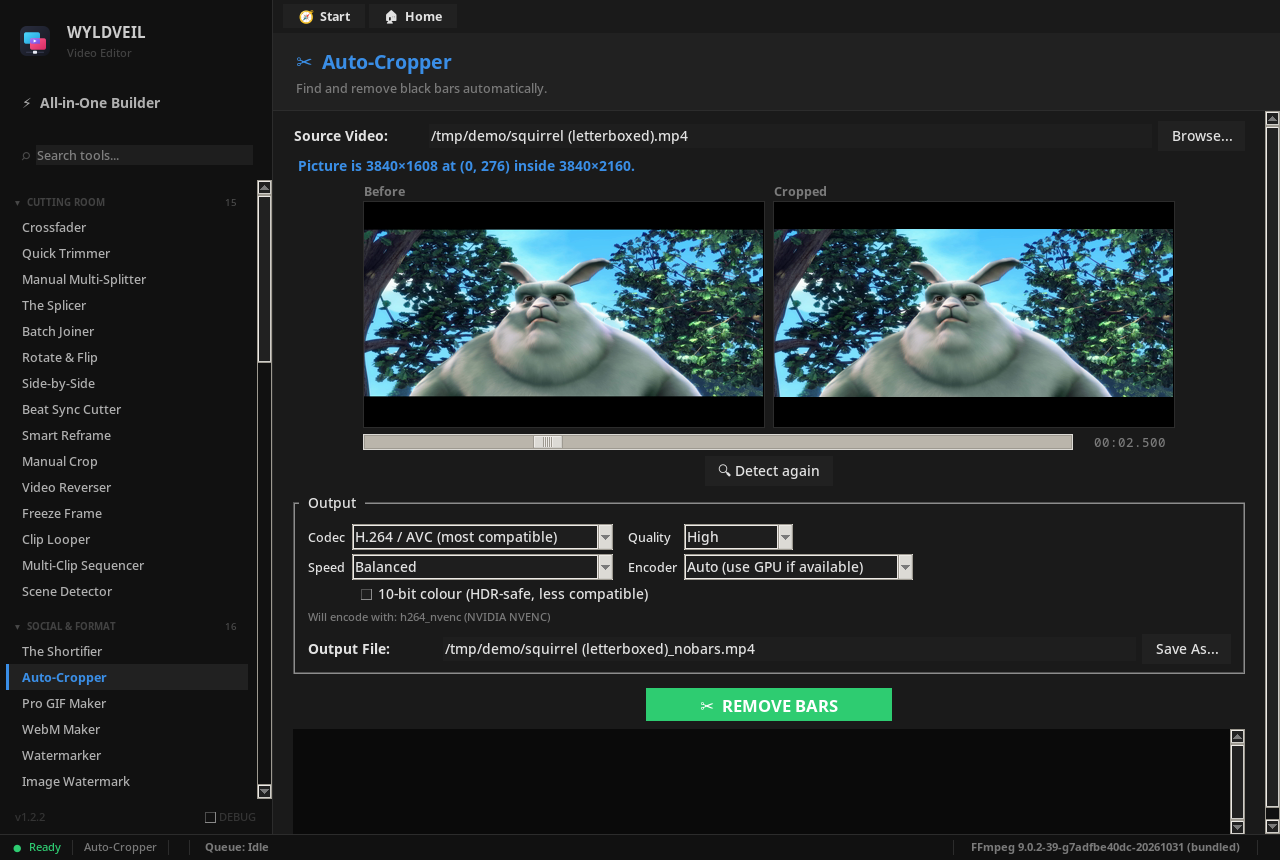
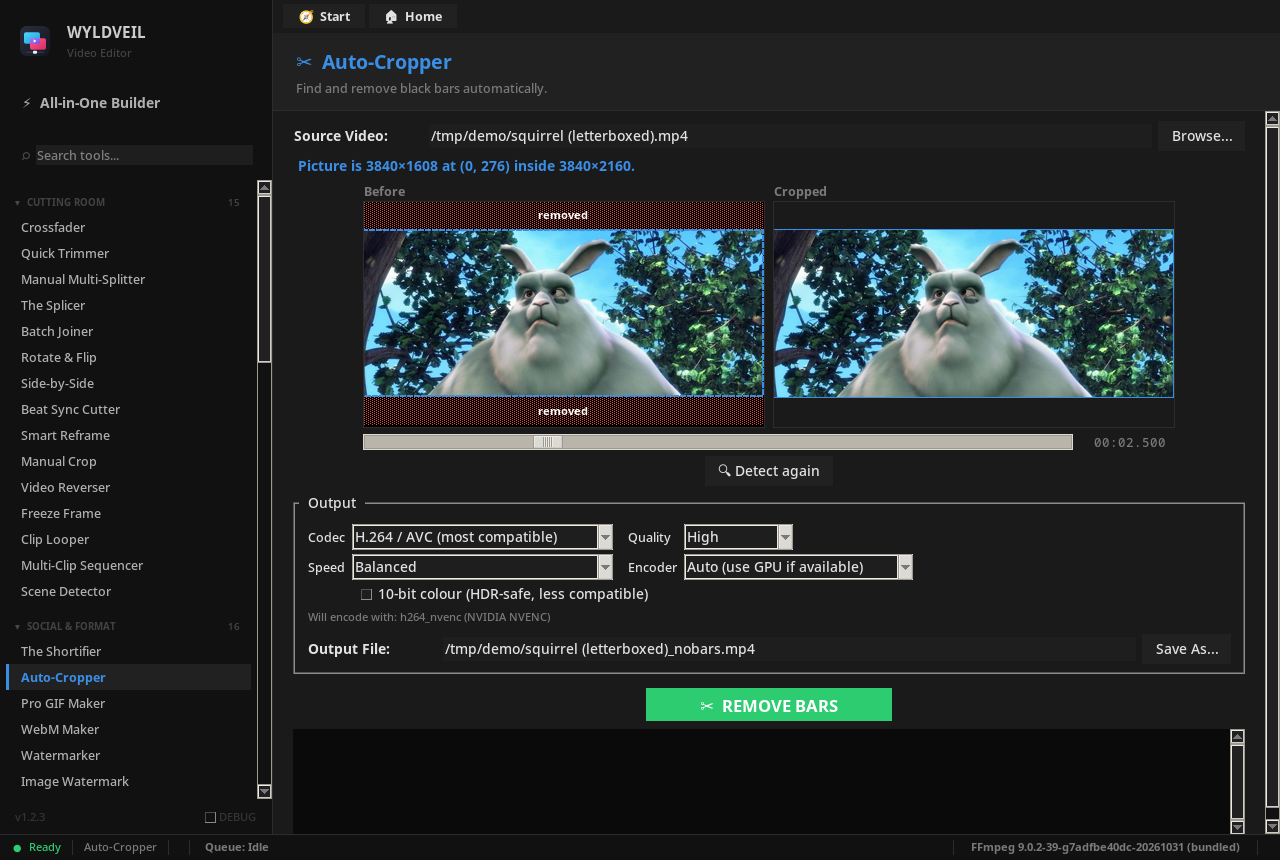
Fix things that looked broken: Auto-Cropper preview, Encode Queue progress, and more
- Auto-Cropper: the before view shades the bars that will go and outlines the
  picture that stays; the cropped view is drawn on the page colour, so it is
  visibly shorter (on black it looked exactly like the original).
- Encode Queue: the Progress column shows a bar, percentage and time left (or
  Waiting / Finished / Failed and why) instead of raw FFmpeg log lines.
- TTS Voice-Over: the character / word count follows every change to the
  script, not only typing (it stayed at 0 after pasting with the mouse,
  dropping or loading text).
- Music Ducker: labels are as wide as the longest one, in any language
  ("Background Music File:" was cut off).
- Chapter Markers: the list is one row and the checks, export buttons and
  YouTube text sit below it at full width (they were squeezed into a narrow
  column and cut off); the page scrolls; each problem on its own line.
- One-line tool headers cut a too-long subtitle at its end, not both ends.
- README: Auto-Cropper and Colour Match screenshots show what they do.

Changed region(s): [[0.2812, 0.2116, 0.9375, 0.514], [0.0, 0.2419, 0.125, 0.6953], [0.0, 0.7558, 0.0938, 0.9372]]

diff --git a/tabs/social/chapter_markers.py b/tabs/social/chapter_markers.py
@@ -23,6 +23,7 @@ import re
 import json
 
 from tabs.base_tab import BaseTab, CLR, UI_FONT, MONO_FONT
+from tabs.widgets import scroll_body
 from core.i18n import t
 from core.scaling import px
 
@@ -112,8 +113,10 @@ class ChapterMarkersTab(BaseTab):
                  text=t("chapter_markers.subtitle"),
                  bg=CLR["panel"], fg=CLR["fgdim"]).pack(side="left")
 
+        body = scroll_body(self)
+
         # ── Source video ──────────────────────────────────────────────────
-        sf = tk.Frame(self); sf.pack(pady=px(10))
+        sf = tk.Frame(body); sf.pack(pady=px(10))
         tk.Label(sf, text=t("common.source_video"), font=(UI_FONT, 10, "bold")).pack(side="left")
         self.src_var = tk.StringVar()
         tk.Entry(sf, textvariable=self.src_var, width=58, relief="flat").pack(side="left", padx=px(8))
@@ -123,7 +126,7 @@ class ChapterMarkersTab(BaseTab):
         self.dur_lbl.pack(side="left", padx=px(8))
 
         # ── Timeline scrubber ─────────────────────────────────────────────
-        scrub_lf = tk.LabelFrame(self, text=f"  {t('chapter_markers.timeline_section')}  ", padx=px(14), pady=px(10))
+        scrub_lf = tk.LabelFrame(body, text=f"  {t('chapter_markers.timeline_section')}  ", padx=px(14), pady=px(10))
         scrub_lf.pack(fill="x", padx=px(16), pady=px(6))
 
         self.timeline = tk.Scale(scrub_lf, from_=0, to=100,
@@ -152,7 +155,7 @@ class ChapterMarkersTab(BaseTab):
                       command=lambda p=pct: self._jump_pct(p)).pack(side="left", padx=px(1))
 
         # ── Mark + name ───────────────────────────────────────────────────
-        mark_row = tk.Frame(self); mark_row.pack(fill="x", padx=px(16), pady=px(4))
+        mark_row = tk.Frame(body); mark_row.pack(fill="x", padx=px(16), pady=px(4))
         tk.Label(mark_row, text=t("chapter_markers.chapter_title_label")).pack(side="left")
         self.new_title_var = tk.StringVar(value="Chapter")
         title_entry = tk.Entry(mark_row, textvariable=self.new_title_var, width=30, relief="flat")
@@ -168,7 +171,7 @@ class ChapterMarkersTab(BaseTab):
                   command=lambda: self._add_chapter(0.0, "Intro")).pack(side="left", padx=px(4))
 
         # Auto-number
-        auto_row = tk.Frame(self); auto_row.pack(anchor="w", padx=px(16), pady=px(2))
+        auto_row = tk.Frame(body); auto_row.pack(anchor="w", padx=px(16), pady=px(2))
         self.autonumber_var = tk.BooleanVar(value=True)
         tk.Checkbutton(auto_row,
                        text=t("chapter_markers.auto_number_checkbox"),
@@ -177,21 +180,25 @@ class ChapterMarkersTab(BaseTab):
         tk.Entry(auto_row, textvariable=self.prefix_var, width=12, relief="flat").pack(side="left", padx=px(6))
 
         # ── Chapter list ──────────────────────────────────────────────────
-        list_hdr = tk.Frame(self); list_hdr.pack(fill="x", padx=px(16), pady=px(8, 0))
+        list_hdr = tk.Frame(body); list_hdr.pack(fill="x", padx=px(16), pady=px(8, 0))
         tk.Label(list_hdr, text=t("chapter_markers.chapter_list"), font=(UI_FONT, 9, "bold"),
                  fg=CLR["fgdim"]).pack(side="left")
         self.count_lbl = tk.Label(list_hdr, text=t("chapter_markers.0_chapters"),
                                    fg=CLR["fgdim"], font=(UI_FONT, 9))
         self.count_lbl.pack(side="left", padx=px(10))
 
+        # The list with its scrollbar and buttons is one row; everything else
+        # goes below it at full width
+        list_row = tk.Frame(body)
+        list_row.pack(fill="x")
         cols = ("timestamp", "title")
-        self.tree = ttk.Treeview(self, columns=cols, show="headings",
+        self.tree = ttk.Treeview(list_row, columns=cols, show="headings",
                                   selectmode="browse", height=8)
         self.tree.heading("timestamp", text=t("chapter_markers.timestamp_col"))
         self.tree.heading("title",     text=t("chapter_markers.title_col"))
         self.tree.column("timestamp", width=px(120), anchor="center")
         self.tree.column("title",     width=px(500))
-        tree_sb = ttk.Scrollbar(self, command=self.tree.yview)
+        tree_sb = ttk.Scrollbar(list_row, command=self.tree.yview)
         self.tree.config(yscrollcommand=tree_sb.set)
         self.tree.pack(side="left", fill="both", expand=False,
                        padx=px(16, 0), pady=px(4))
@@ -200,7 +207,7 @@ class ChapterMarkersTab(BaseTab):
         self.tree.bind("<Delete>", lambda e: self._remove_selected())
 
         # List action buttons
-        list_btns = tk.Frame(self)
+        list_btns = tk.Frame(list_row)
         list_btns.pack(side="left", padx=px(8), anchor="n", pady=px(4))
         for txt, cmd, bg in [
             ("✏  Edit Title",                            self._edit_selected,  "#3A3A3A"),
@@ -215,15 +222,14 @@ class ChapterMarkersTab(BaseTab):
 
         # ── Preview pane ──────────────────────────────────────────────────
         # (rest of the UI continues below the side-by-side)
-        self.tree.pack_configure(side="left", expand=True)
 
         # ── Validation ────────────────────────────────────────────────────
-        self.valid_lbl = tk.Label(self, text="", font=(UI_FONT, 9),
-                                   fg=CLR["fgdim"])
+        self.valid_lbl = tk.Label(body, text="", font=(UI_FONT, 9),
+                                   fg=CLR["fgdim"], justify="left", anchor="w")
         self.valid_lbl.pack(anchor="w", padx=px(16))
 
         # ── Export ────────────────────────────────────────────────────────
-        export_lf = tk.LabelFrame(self, text=f"  {t('chapter_markers.export_section')}  ", padx=px(14), pady=px(8))
+        export_lf = tk.LabelFrame(body, text=f"  {t('chapter_markers.export_section')}  ", padx=px(14), pady=px(8))
         export_lf.pack(fill="x", padx=px(16), pady=px(6))
 
         exp_row = tk.Frame(export_lf); exp_row.pack(fill="x")
@@ -240,7 +246,7 @@ class ChapterMarkersTab(BaseTab):
                       command=cmd).pack(side="left", padx=px(4))
 
         # Output preview
-        preview_lf = tk.LabelFrame(self, text=f"  {t('chapter_markers.preview_section')}  ",
+        preview_lf = tk.LabelFrame(body, text=f"  {t('chapter_markers.preview_section')}  ",
                                     padx=px(10), pady=px(6))
         preview_lf.pack(fill="x", padx=px(16), pady=px(4))
         self.preview_text = tk.Text(preview_lf, height=8,
@@ -317,7 +323,7 @@ class ChapterMarkersTab(BaseTab):
         if not issues:
             self.valid_lbl.config(text=t("chapter_markers.valid_for_youtube_chapters"), fg=CLR["green"])
         else:
-            self.valid_lbl.config(text="⚠  " + "  ".join(issues), fg=CLR["orange"])
+            self.valid_lbl.config(text="\n".join("⚠  " + i for i in issues), fg=CLR["orange"])
 
     def _update_preview(self):
         self.preview_text.config(state="normal")

diff --git a/tabs/social/auto_cropper.py b/tabs/social/auto_cropper.py
@@ -60,6 +60,12 @@ class AutoCropperTab(BaseTab):
         self.result_lbl.pack(anchor="w", padx=px(24))
         self.compare = CompareView(body, 400, 225, after_label="Cropped")
         self.compare.pack(pady=px(4))
+        # Before: the bars that go are shaded and the picture that stays is outlined.
+        # Cropped: drawn on the page colour, not black, so the frame is visibly
+        # shorter than before (on black it looked just like the bars).
+        self.compare.view_before.after_draw = self._draw_bars
+        self.compare.view_after.after_draw = self._outline_result
+        self.compare.view_after.canvas.configure(bg=CLR["bg"])
         self.btn_detect = tk.Button(body, text="🔍 Detect again", relief="flat", command=self._detect)
         self.btn_detect.pack()
 
@@ -101,15 +107,48 @@ class AutoCropperTab(BaseTab):
                 self.box = None
                 self.result_lbl.config(text="No black bars found - nothing to crop.")
                 self.compare.set_filter("")
+                self._draw_bars()
                 return
             self.box = box
             x, y, bw, bh = box
             self.result_lbl.config(text=f"Picture is {bw}×{bh} at ({x}, {y}) inside {w}×{h}.")
             self.compare.set_filter(f"crop={bw}:{bh}:{x}:{y}")
+            self._draw_bars()
 
         from core import ui
         ui.run_in_thread(detect_bars, path, info.duration, on_done=done,
                          on_error=lambda _e: done(None), name="AutoCrop")
+
+    def _draw_bars(self):
+        view = self.compare.view_before
+        c = view.canvas
+        c.delete("bars")
+        shown = view.image_box()
+        if shown is None or self.box is None or self._info is None or not self._info.has_video:
+            return
+        ix, iy, iw, ih = shown
+        vw, vh = self._info.video.display_size
+        sx, sy = iw / max(1, vw), ih / max(1, vh)
+        x, y, bw, bh = self.box
+        kx0, ky0, kx1, ky1 = ix + x * sx, iy + y * sy, ix + (x + bw) * sx, iy + (y + bh) * sy
+        for box in ((ix, iy, ix + iw, ky0), (ix, ky1, ix + iw, iy + ih),
+                    (ix, ky0, kx0, ky1), (kx1, ky0, ix + iw, ky1)):
+            if box[2] - box[0] >= 2 and box[3] - box[1] >= 2:
+                c.create_rectangle(*box, fill=CLR["red"], stipple="gray25", outline="", tags="bars")
+                if box[3] - box[1] >= px(14) and box[2] - box[0] >= px(90):
+                    c.create_text((box[0] + box[2]) / 2, (box[1] + box[3]) / 2, text="removed",
+                                  fill="#FFFFFF", font=(UI_FONT, 8, "bold"), tags="bars")
+        c.create_rectangle(kx0, ky0, kx1, ky1, outline=CLR["accent"], width=px(2), dash=px(4, 3),
+                           tags="bars")
+
+    def _outline_result(self):
+        view = self.compare.view_after
+        view.canvas.delete("edge")
+        shown = view.image_box()
+        if shown is not None:
+            x, y, w, h = shown
+            view.canvas.create_rectangle(x, y, x + w, y + h, outline=CLR["accent"], width=px(1),
+                                         tags="edge")
 
     def _render(self):
         src = self.src_row.path

diff --git a/tabs/audio/ducker.py b/tabs/audio/ducker.py
@@ -41,14 +41,19 @@ class AudioDuckerTab(BaseTab):
         tk.Label(hdr_inner,
                  text=t("ducker.desc_header"),
                  font=(UI_FONT, 10), bg=CLR["panel"],
-                 fg=CLR["fgdim"]).pack(side="left", padx=px(16, 0))
+                 fg=CLR["fgdim"], anchor="w").pack(side="left", fill="x", expand=True, padx=px(16, 0))
         tk.Frame(self, bg=CLR["border"], height=px(1)).pack(fill="x")
+
+        # The bold labels on the left share one width: wide enough for the
+        # longest of them (in any language), so none is cut off
+        lw = 2 + max(len(t(k)) for k in ("common.source_video", "ducker.lbl_bg_music",
+                                         "common.preset", "common.output_file"))
 
         # ── Source video ──────────────────────────────────────────────────────
         sf = tk.Frame(self)
         sf.pack(fill="x", padx=px(16), pady=px(8))
         tk.Label(sf, text=t("common.source_video"),
-                 font=(UI_FONT, 10, "bold"), width=18, anchor="e").pack(side="left")
+                 font=(UI_FONT, 10, "bold"), width=lw, anchor="e").pack(side="left")
         self._src_var = tk.StringVar()
         tk.Entry(sf, textvariable=self._src_var, width=58, relief="flat").pack(side="left", padx=px(8))
         tk.Button(sf, text=t("btn.browse"), command=self._browse_src,
@@ -58,7 +63,7 @@ class AudioDuckerTab(BaseTab):
         mf = tk.Frame(self)
         mf.pack(fill="x", padx=px(16), pady=px(4))
         tk.Label(mf, text=t("ducker.lbl_bg_music"),
-                 font=(UI_FONT, 10, "bold"), width=18, anchor="e").pack(side="left")
+                 font=(UI_FONT, 10, "bold"), width=lw, anchor="e").pack(side="left")
         self._music_var = tk.StringVar()
         tk.Entry(mf, textvariable=self._music_var, width=58, relief="flat").pack(side="left", padx=px(8))
         tk.Button(mf, text=t("btn.browse"), command=self._browse_music,
@@ -68,7 +73,7 @@ class AudioDuckerTab(BaseTab):
         pf = tk.Frame(self)
         pf.pack(fill="x", padx=px(16), pady=px(6))
         tk.Label(pf, text=t("common.preset"),
-                 font=(UI_FONT, 10, "bold"), width=18, anchor="e").pack(side="left")
+                 font=(UI_FONT, 10, "bold"), width=lw, anchor="e").pack(side="left")
         self._preset_var = tk.StringVar(value="Standard (YouTube)")
         preset_cb = ttk.Combobox(pf, textvariable=self._preset_var,
                                   values=list(PRESETS.keys()),
@@ -160,7 +165,7 @@ class AudioDuckerTab(BaseTab):
         of = tk.Frame(self)
         of.pack(fill="x", padx=px(16), pady=px(6))
         tk.Label(of, text=t("common.output_file"),
-                 font=(UI_FONT, 10, "bold"), width=18, anchor="e").pack(side="left")
+                 font=(UI_FONT, 10, "bold"), width=lw, anchor="e").pack(side="left")
         self._out_var = tk.StringVar()
         tk.Entry(of, textvariable=self._out_var, width=58, relief="flat").pack(side="left", padx=px(8))
         tk.Button(of, text=t("common.save_as"), command=self._browse_out,

diff --git a/tabs/transcoder/encode_queue.py b/tabs/transcoder/encode_queue.py
@@ -37,6 +37,27 @@ def _fmt_elapsed(seconds: float) -> str:
     return f"{m}m {s:02d}s"
 
 
+def progress_text(task) -> str:
+    """What the Progress column shows: a bar and percentage while it runs (the
+    raw FFmpeg log line it used to show meant nothing to most people)."""
+    status = task.status
+    if status == "pending":
+        return "Waiting"
+    if status == "done":
+        return "▰" * 10 + "  Finished"
+    if status == "cancelled":
+        return "Cancelled"
+    if status == "failed":
+        return "Failed - " + (task.error.splitlines()[0][:60] if task.error else "see the log")
+    if task.fraction is None:
+        return "Working…"
+    filled = int(round(task.fraction * 10))
+    text = "▰" * filled + "▱" * (10 - filled) + f"  {task.fraction * 100:.0f}%"
+    if task.eta is not None and task.fraction < 1:
+        text += f" · {_fmt_elapsed(task.eta)} left"
+    return text
+
+
 # ─────────────────────────────────────────────────────────────────────────────
 #  Job  -  settings model for encoding jobs added through the editor panel
 # ─────────────────────────────────────────────────────────────────────────────
@@ -152,7 +173,7 @@ class EncodeQueueTab(BaseTab):
         tk.Label(hdr_inner,
                  text=t("encode_queue.subtitle"),
                  font=(UI_FONT, 10), bg=CLR["panel"],
-                 fg=CLR["fgdim"]).pack(side="left", padx=px(16, 0))
+                 fg=CLR["fgdim"], anchor="w").pack(side="left", fill="x", expand=True, padx=px(16, 0))
         tk.Frame(self, bg=CLR["border"], height=px(1)).pack(fill="x")
 
         # Paned layout
@@ -326,7 +347,7 @@ class EncodeQueueTab(BaseTab):
                 end = task.finished_at or time.time()
                 elapsed = _fmt_elapsed(end - task.started_at)
 
-            progress = task.progress[:60] if task.progress else ""
+            progress = progress_text(task)
             out_name = os.path.basename(task.output_path) if task.output_path else "-"
 
             self.tree.insert(

diff --git a/tabs/audio/tts.py b/tabs/audio/tts.py
@@ -174,7 +174,9 @@ class TTSVoiceOverTab(BaseTab):
         self.text_box.configure(yscrollcommand=txt_sb.set)
         self.text_box.pack(side="left", fill="both", expand=True)
         txt_sb.pack(side="right", fill="y")
-        self.text_box.bind("<KeyRelease>", lambda e: self._update_stats())
+        # Every change counts (typing, any paste, drag and drop, a loaded file),
+        # not just key presses
+        self.text_box.bind("<<Modified>>", self._text_modified)
 
         # Placeholder hint
         self.text_box.insert("1.0",
@@ -484,6 +486,11 @@ class TTSVoiceOverTab(BaseTab):
             with open(p, "r", encoding="utf-8", errors="replace") as f:
                 self.text_box.delete("1.0", "end")
                 self.text_box.insert("1.0", f.read())
+            self._update_stats()
+
+    def _text_modified(self, _event=None):
+        if self.text_box.edit_modified():
+            self.text_box.edit_modified(False)
             self._update_stats()
 
     def _update_stats(self):

diff --git a/tabs/system/batch.py b/tabs/system/batch.py
@@ -51,7 +51,7 @@ class BatchTab(BaseTab):
                  bg=CLR["panel"], fg=CLR["accent"]).pack(side="left")
         tk.Label(hdr_inner, text=t("batch.desc_subtitle"),
                  font=(UI_FONT, 10), bg=CLR["panel"],
-                 fg=CLR["fgdim"]).pack(side="left", padx=px(16, 0))
+                 fg=CLR["fgdim"], anchor="w").pack(side="left", fill="x", expand=True, padx=px(16, 0))
         tk.Frame(self, bg=CLR["border"], height=px(1)).pack(fill="x")
 
         # ── Input files ───────────────────────────────────────────────────

diff --git a/tabs/transcoder/presets.py b/tabs/transcoder/presets.py
@@ -197,7 +197,7 @@ class PresetManagerTab(BaseTab):
                  bg=CLR["panel"], fg=CLR["accent"]).pack(side="left")
         tk.Label(hdr_inner, text=t("presets.subtitle"),
                  font=(UI_FONT, 10), bg=CLR["panel"],
-                 fg=CLR["fgdim"]).pack(side="left", padx=px(16, 0))
+                 fg=CLR["fgdim"], anchor="w").pack(side="left", fill="x", expand=True, padx=px(16, 0))
         tk.Frame(self, bg=CLR["border"], height=px(1)).pack(fill="x")
 
         # ── Main paned layout ─────────────────────────────────────────────

diff --git a/tabs/system/settings.py b/tabs/system/settings.py
@@ -32,7 +32,7 @@ class SettingsTab(BaseTab):
                  bg=CLR["panel"], fg=CLR["accent"]).pack(side="left")
         tk.Label(hdr_inner, text=t("settings.subtitle"),
                  font=(UI_FONT, 10), bg=CLR["panel"],
-                 fg=CLR["fgdim"]).pack(side="left", padx=px(16, 0))
+                 fg=CLR["fgdim"], anchor="w").pack(side="left", fill="x", expand=True, padx=px(16, 0))
         tk.Frame(self, bg=CLR["border"], height=px(1)).pack(fill="x")
 
         lf = tk.LabelFrame(self, text=f"  {t('settings.encoding_defaults_section')}  ", padx=px(20), pady=px(14))

diff --git a/tabs/audio/karaoke.py b/tabs/audio/karaoke.py
@@ -219,7 +219,7 @@ class KaraokeTab(BaseTab):
         tk.Label(hdr_inner,
                  text=t("karaoke.subtitle"),
                  font=(UI_FONT, 10), bg=CLR["panel"],
-                 fg=CLR["fgdim"]).pack(side="left", padx=px(16, 0))
+                 fg=CLR["fgdim"], anchor="w").pack(side="left", fill="x", expand=True, padx=px(16, 0))
         tk.Frame(self, bg=CLR["border"], height=px(1)).pack(fill="x")
 
         # ── Whisper status banner ──────────────────────────────────────────

diff --git a/tabs/audio/dynamics.py b/tabs/audio/dynamics.py
@@ -76,7 +76,7 @@ class AudioDynamicsTab(BaseTab):
                  bg=CLR["panel"], fg=CLR["accent"]).pack(side="left")
         tk.Label(hdr_inner, text=t("dynamics.desc_header"),
                  font=(UI_FONT, 10), bg=CLR["panel"],
-                 fg=CLR["fgdim"]).pack(side="left", padx=px(16, 0))
+                 fg=CLR["fgdim"], anchor="w").pack(side="left", fill="x", expand=True, padx=px(16, 0))
         tk.Frame(self, bg=CLR["border"], height=px(1)).pack(fill="x")
 
         # Source

diff --git a/tabs/cutting/batch_joiner.py b/tabs/cutting/batch_joiner.py
@@ -35,7 +35,7 @@ class BatchJoinerTab(BaseTab):
                  bg=CLR["panel"], fg=CLR["accent"]).pack(side="left")
         tk.Label(hdr_inner, text=t("batch_joiner.desc"),
                  font=(UI_FONT, 10), bg=CLR["panel"],
-                 fg=CLR["fgdim"]).pack(side="left", padx=px(16, 0))
+                 fg=CLR["fgdim"], anchor="w").pack(side="left", fill="x", expand=True, padx=px(16, 0))
         tk.Frame(self, bg=CLR["border"], height=px(1)).pack(fill="x")
 
         # File list

diff --git a/tabs/cutting/trimmer.py b/tabs/cutting/trimmer.py
@@ -84,7 +84,7 @@ class TrimmerTab(BaseTab):
                  bg=CLR["panel"], fg=CLR["accent"]).pack(side="left")
         tk.Label(hdr_inner, text=t("trimmer.subtitle"),
                  font=(UI_FONT, 10), bg=CLR["panel"],
-                 fg=CLR["fgdim"]).pack(side="left", padx=px(16, 0))
+                 fg=CLR["fgdim"], anchor="w").pack(side="left", fill="x", expand=True, padx=px(16, 0))
         tk.Frame(self, bg=CLR["border"], height=px(1)).pack(fill="x")
 
         # Source row
